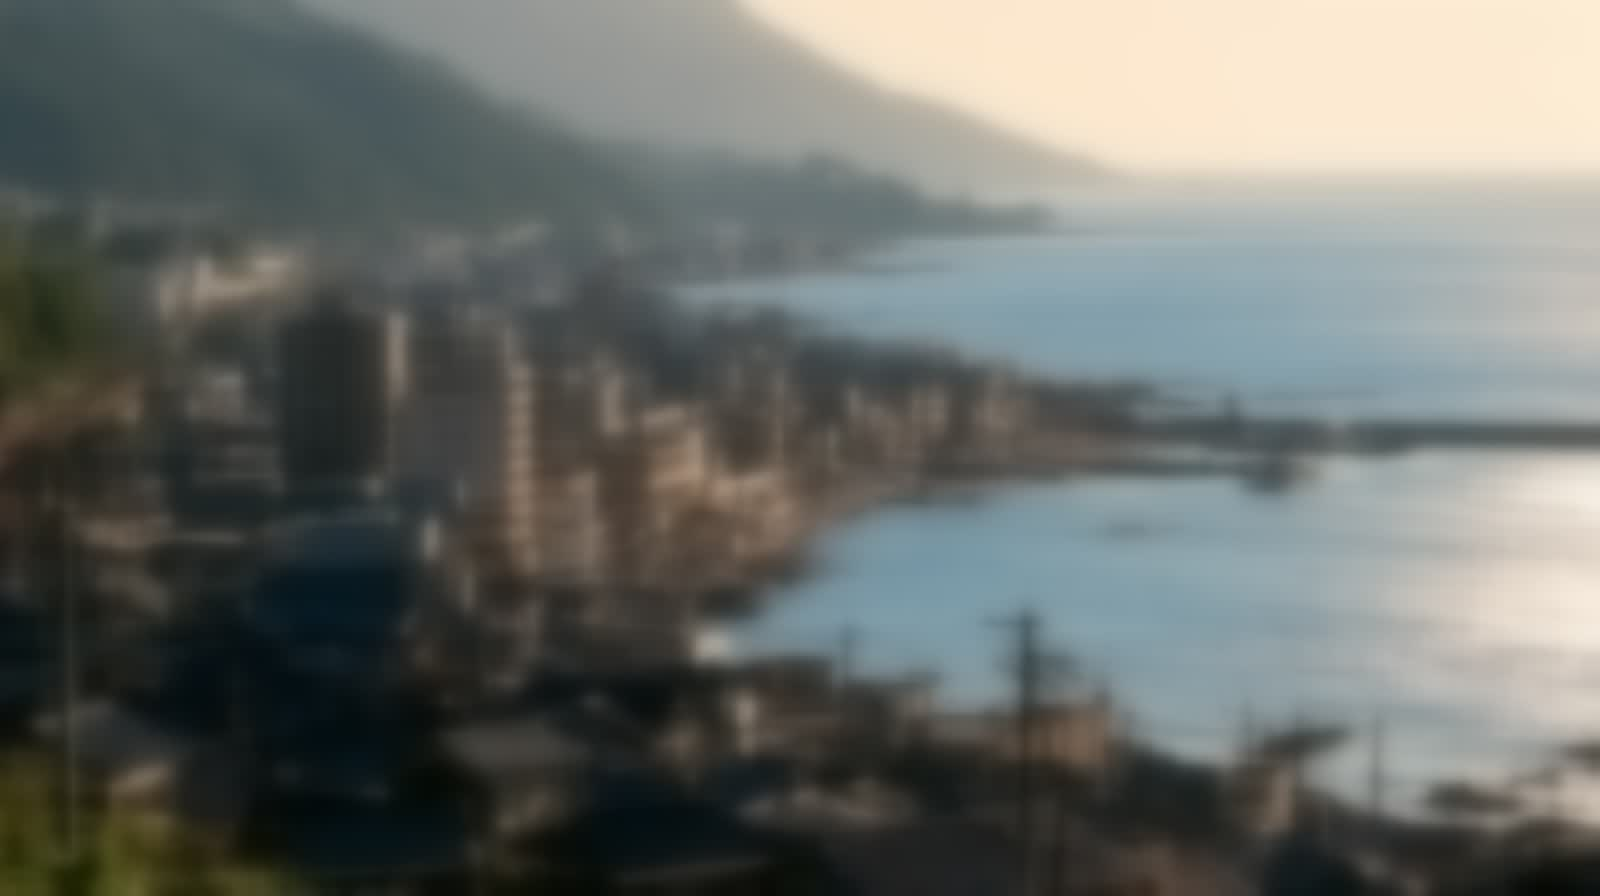
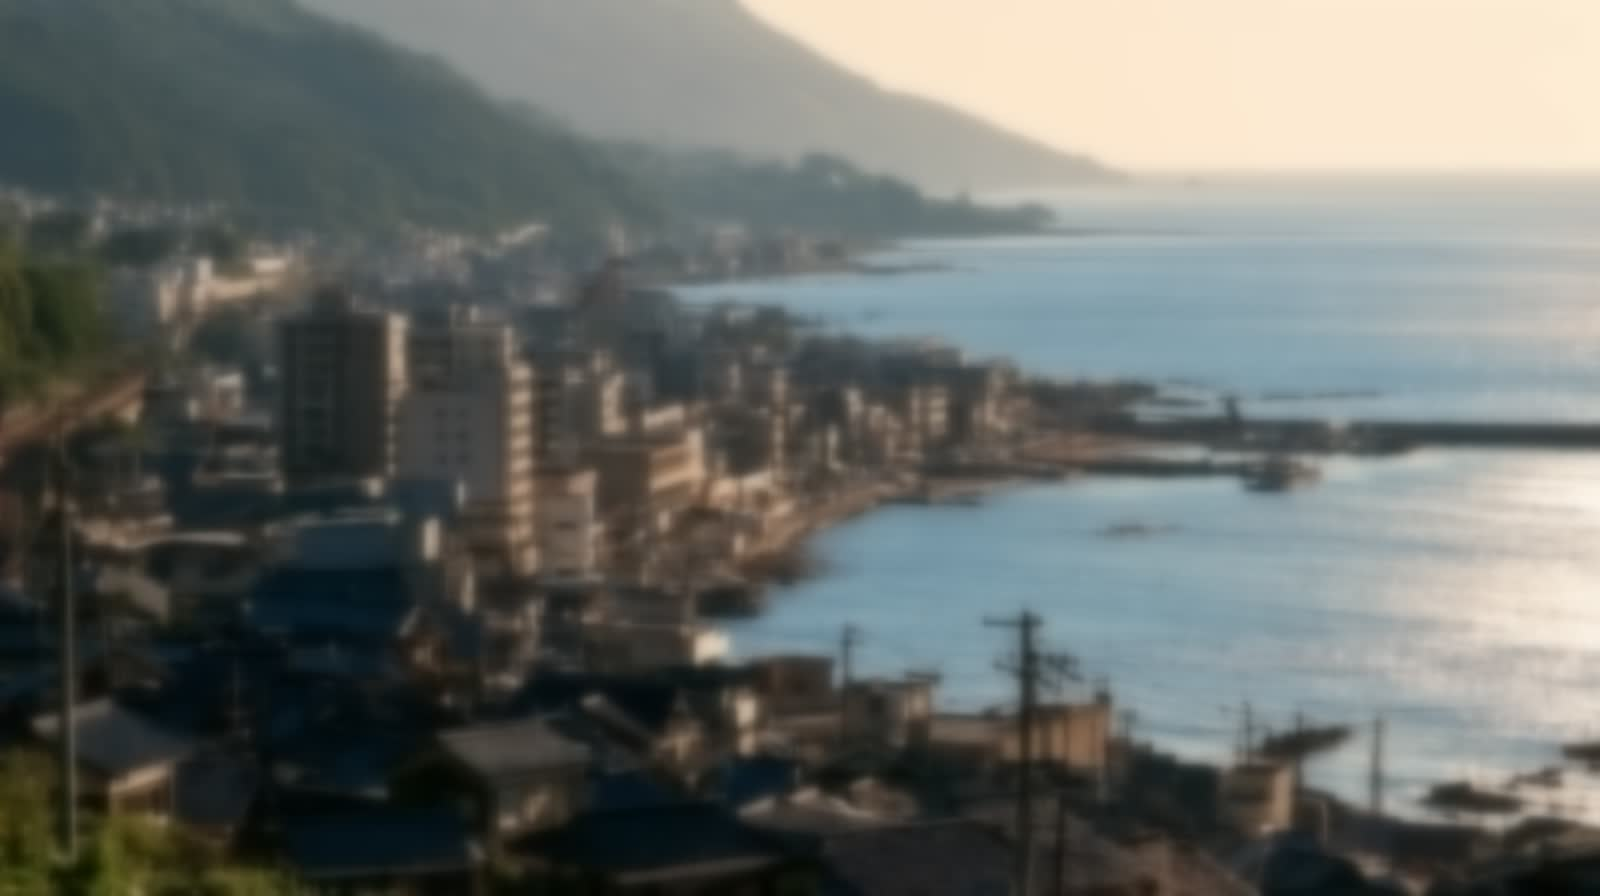
style: 背景の風景写真をもっと見せる
ぼかしを弱め（sigma 14→7）、上に重ねていた藤色のベールも
薄くした（0.34→0.12）。海辺の町の景色が読み取れるようになった。

Claude-Session: https://claude.ai/code/session_01B1xzVCD773ShRDVhFvpr4x

diff --git a/src/app/cheer/cheer.css b/src/app/cheer/cheer.css
@@ -170,7 +170,7 @@
   content: "";
   position: absolute;
   inset: 0;
-  background: rgba(242, 236, 255, 0.34);
+  background: rgba(242, 236, 255, 0.12);
 }
 /* 動画のぶん（9:16）。縦は画面いっぱい、横は中央に寄せる。
    スマホのように画面のほうが細いときは、これまでどおり全面になる */
